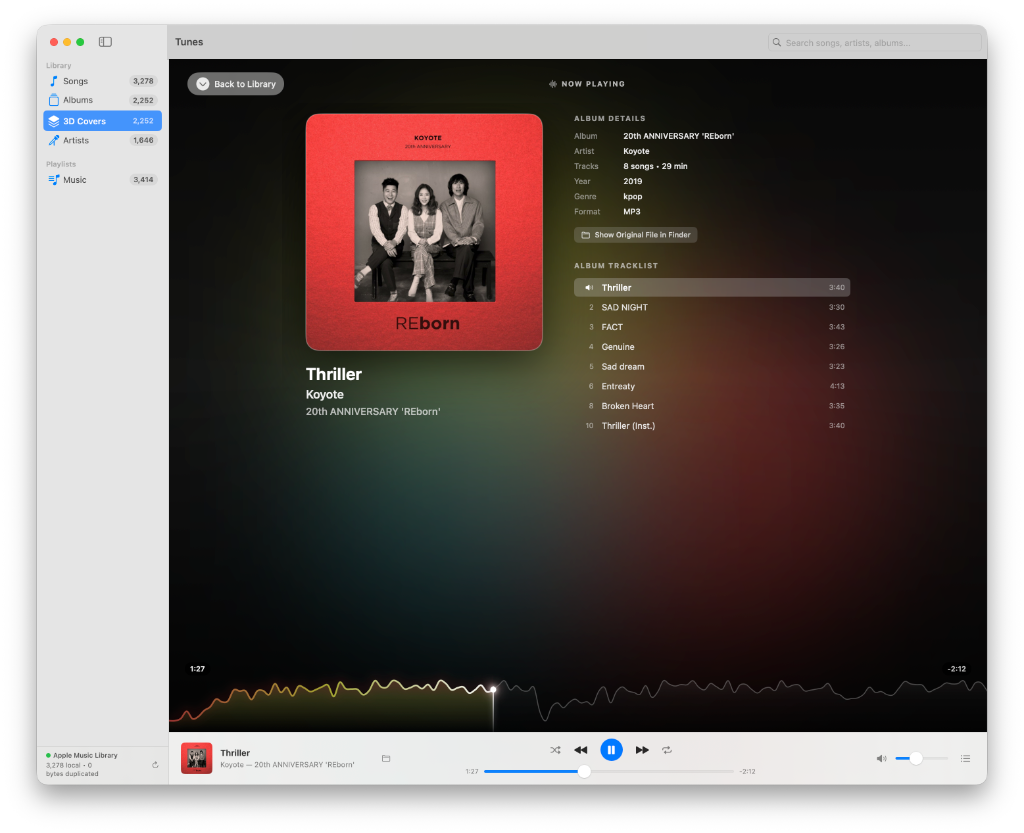
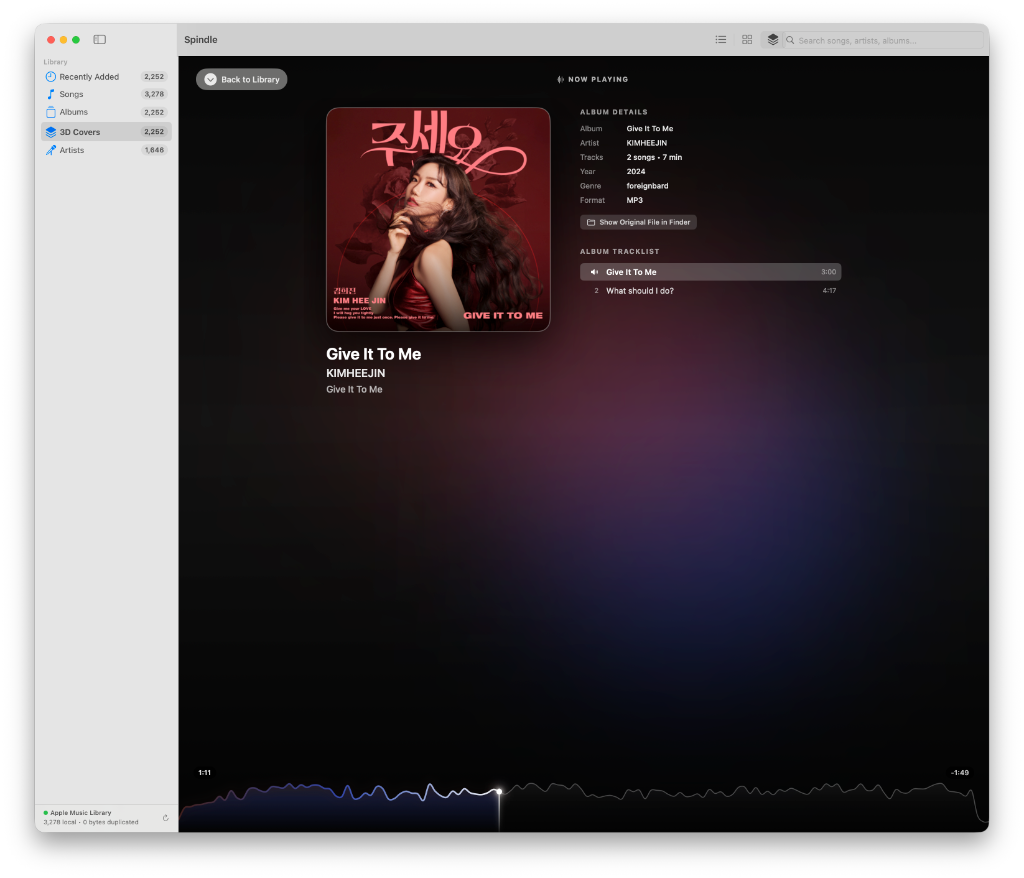
Update README screenshots with high-quality 3D Vinyl Drawer and Expanded Now Playing captures

diff --git a/README.md b/README.md
@@ -49,11 +49,11 @@ Spindle connects directly to your existing Apple Music library using macOS's nat
 </p>
 
 - **Library Views**:
-  - **3D Covers**: Interactive physical vinyl drawer browser.
+  - **Recently Added**: Chronological showcase for newest additions with one-click view switching.
+  - **3D Covers**: Interactive physical vinyl drawer browser with turntable deck.
   - **Albums**: Responsive cover grid with instant album detail inspection.
   - **Songs**: Searchable, sortable list view with real-time filtering.
   - **Artists**: Two-pane discography navigator.
-  - **Playlists**: Preserves custom playlist order directly from Apple Music.
 - **Media Keys & Control Center**: Full integration with `MPRemoteCommandCenter` (Play/Pause, Next, Previous, Scrubbing) and Touch Bar/keyboard media keys (F7, F8, F9).
 - **Now Playing Info Center**: Publishes active song title, artist, album, duration, elapsed playback time, and artwork to macOS Control Center and lock screen.
 - **Reveal in Finder**: Quickly jump straight to the source audio file in Finder.
